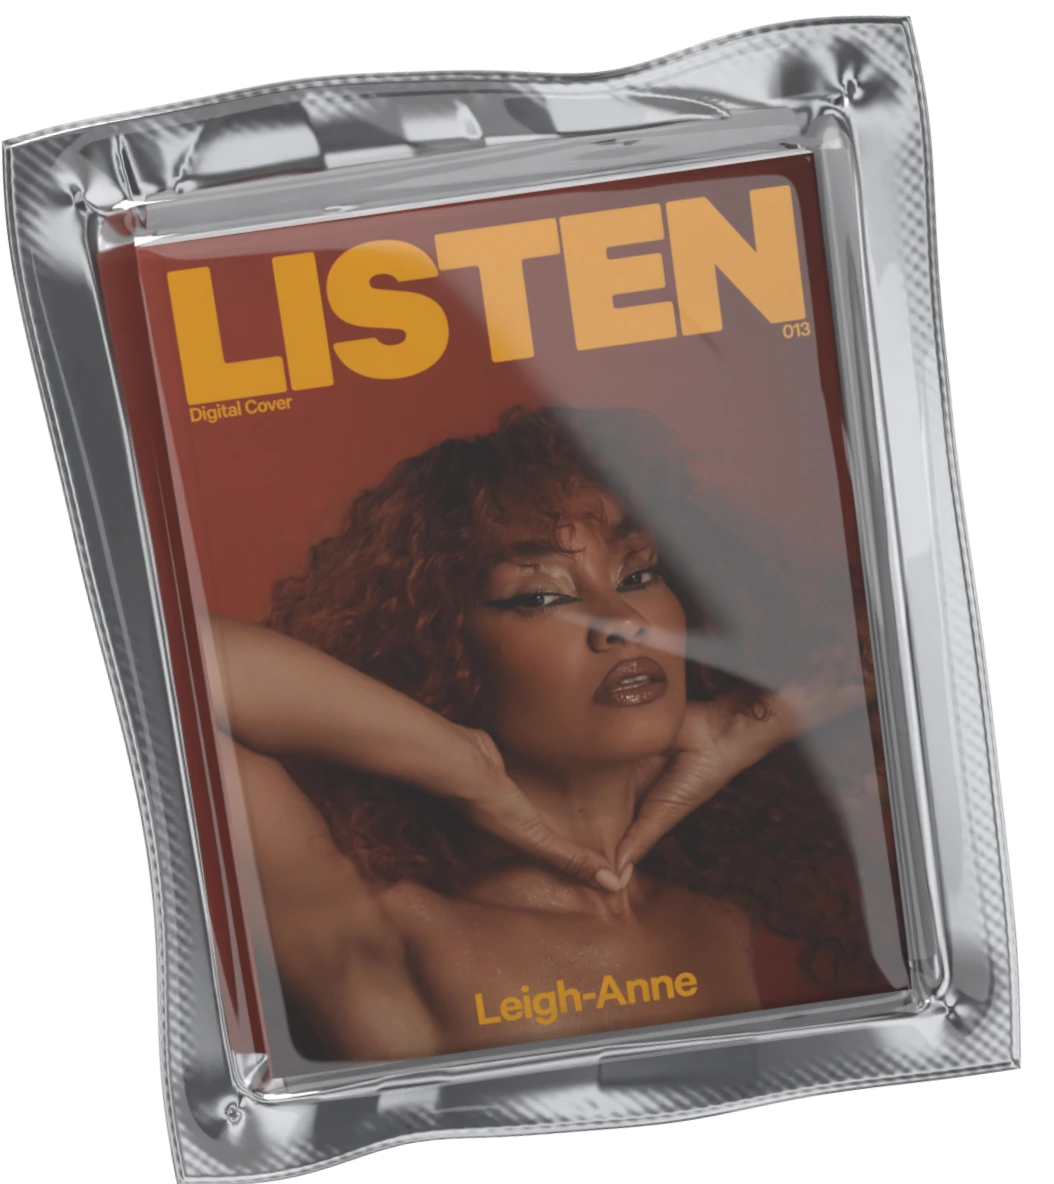
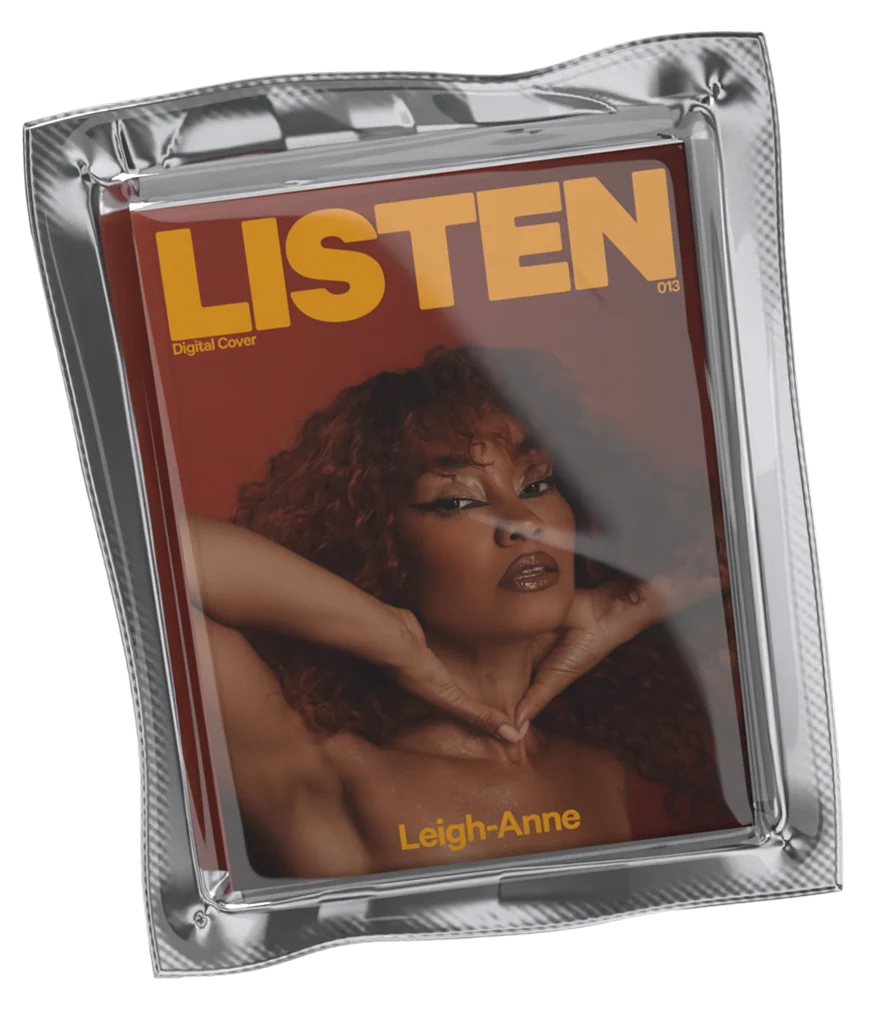
Mobile: sharper 2x LISTEN still from Sam, placed to the Figma frame
Claude-Session: https://claude.ai/code/session_012K1qkxSxFVPdh193GzudyK

diff --git a/new/about.html b/new/about.html
@@ -20,12 +20,12 @@ try{if(sessionStorage.getItem("sm-tx")&&!matchMedia("(prefers-reduced-motion: re
 <meta name="twitter:card" content="summary_large_image">
 <link rel="stylesheet" href="https://use.typekit.net/wpk2hzh.css">
 <!-- Bump ?v= on every update so browsers never mix old and new files. -->
-<link rel="stylesheet" href="css/site.css?v=20261108g">
-<link rel="stylesheet" href="css/case.css?v=20261108g">
-<link rel="stylesheet" href="css/mobile.css?v=20261108g">
-<link rel="stylesheet" href="css/about.css?v=20261108g">
+<link rel="stylesheet" href="css/site.css?v=20261108h">
+<link rel="stylesheet" href="css/case.css?v=20261108h">
+<link rel="stylesheet" href="css/mobile.css?v=20261108h">
+<link rel="stylesheet" href="css/about.css?v=20261108h">
 <!-- Hide this page right away if the project is switched off (js/projects.js) -->
-<script src="js/projects.js?v=20261108g"></script>
+<script src="js/projects.js?v=20261108h"></script>
 </head>
 <body data-page="case" data-project="about">
 <!-- Page transition screen (js/transition.js) -->
@@ -104,17 +104,17 @@ try{if(sessionStorage.getItem("sm-tx")&&!matchMedia("(prefers-reduced-motion: re
   <a class="is-dark-rim" href="index.html">Home</a>
 </footer>
 
-<script src="js/vendor/gsap.min.js?v=20261108g"></script>
-<script src="js/vendor/ScrollTrigger.min.js?v=20261108g"></script>
-<script src="js/vendor/lenis.min.js?v=20261108g"></script>
-<script src="js/smooth.js?v=20261108g"></script>
-<script src="js/glass.js?v=20261108g"></script>
-<script src="js/header.js?v=20261108g"></script>
-<script src="js/case.js?v=20261108g"></script>
-<script src="js/media-viewer.js?v=20261108g"></script>
-<script src="js/transition.js?v=20261108g"></script>
-<script src="js/theme.js?v=20261108g"></script>
-<script src="js/mobile-menu.js?v=20261108g"></script>
-<script src="js/about.js?v=20261108g"></script>
+<script src="js/vendor/gsap.min.js?v=20261108h"></script>
+<script src="js/vendor/ScrollTrigger.min.js?v=20261108h"></script>
+<script src="js/vendor/lenis.min.js?v=20261108h"></script>
+<script src="js/smooth.js?v=20261108h"></script>
+<script src="js/glass.js?v=20261108h"></script>
+<script src="js/header.js?v=20261108h"></script>
+<script src="js/case.js?v=20261108h"></script>
+<script src="js/media-viewer.js?v=20261108h"></script>
+<script src="js/transition.js?v=20261108h"></script>
+<script src="js/theme.js?v=20261108h"></script>
+<script src="js/mobile-menu.js?v=20261108h"></script>
+<script src="js/about.js?v=20261108h"></script>
 </body>
 </html>

diff --git a/new/contact.html b/new/contact.html
@@ -20,11 +20,11 @@ try{if(sessionStorage.getItem("sm-tx")&&!matchMedia("(prefers-reduced-motion: re
 <meta name="twitter:card" content="summary_large_image">
 <link rel="stylesheet" href="https://use.typekit.net/wpk2hzh.css">
 <!-- Bump ?v= on every update so browsers never mix old and new files. -->
-<link rel="stylesheet" href="css/site.css?v=20261108g">
-<link rel="stylesheet" href="css/case.css?v=20261108g">
-<link rel="stylesheet" href="css/mobile.css?v=20261108g">
+<link rel="stylesheet" href="css/site.css?v=20261108h">
+<link rel="stylesheet" href="css/case.css?v=20261108h">
+<link rel="stylesheet" href="css/mobile.css?v=20261108h">
 <!-- Hide this page right away if the project is switched off (js/projects.js) -->
-<script src="js/projects.js?v=20261108g"></script>
+<script src="js/projects.js?v=20261108h"></script>
 </head>
 <body data-page="case" data-project="contact">
 <!-- Page transition screen (js/transition.js) -->
@@ -77,16 +77,16 @@ try{if(sessionStorage.getItem("sm-tx")&&!matchMedia("(prefers-reduced-motion: re
   <a class="is-dark-rim" href="index.html">Home</a>
 </footer>
 
-<script src="js/vendor/gsap.min.js?v=20261108g"></script>
-<script src="js/vendor/ScrollTrigger.min.js?v=20261108g"></script>
-<script src="js/vendor/lenis.min.js?v=20261108g"></script>
-<script src="js/smooth.js?v=20261108g"></script>
-<script src="js/glass.js?v=20261108g"></script>
-<script src="js/header.js?v=20261108g"></script>
-<script src="js/case.js?v=20261108g"></script>
-<script src="js/media-viewer.js?v=20261108g"></script>
-<script src="js/transition.js?v=20261108g"></script>
-<script src="js/theme.js?v=20261108g"></script>
-<script src="js/mobile-menu.js?v=20261108g"></script>
+<script src="js/vendor/gsap.min.js?v=20261108h"></script>
+<script src="js/vendor/ScrollTrigger.min.js?v=20261108h"></script>
+<script src="js/vendor/lenis.min.js?v=20261108h"></script>
+<script src="js/smooth.js?v=20261108h"></script>
+<script src="js/glass.js?v=20261108h"></script>
+<script src="js/header.js?v=20261108h"></script>
+<script src="js/case.js?v=20261108h"></script>
+<script src="js/media-viewer.js?v=20261108h"></script>
+<script src="js/transition.js?v=20261108h"></script>
+<script src="js/theme.js?v=20261108h"></script>
+<script src="js/mobile-menu.js?v=20261108h"></script>
 </body>
 </html>

diff --git a/new/composer.html b/new/composer.html
@@ -20,11 +20,11 @@ try{if(sessionStorage.getItem("sm-tx")&&!matchMedia("(prefers-reduced-motion: re
 <meta name="twitter:card" content="summary_large_image">
 <link rel="stylesheet" href="https://use.typekit.net/wpk2hzh.css">
 <!-- Bump ?v= on every update so browsers never mix old and new files. -->
-<link rel="stylesheet" href="css/site.css?v=20261108g">
-<link rel="stylesheet" href="css/case.css?v=20261108g">
-<link rel="stylesheet" href="css/mobile.css?v=20261108g">
+<link rel="stylesheet" href="css/site.css?v=20261108h">
+<link rel="stylesheet" href="css/case.css?v=20261108h">
+<link rel="stylesheet" href="css/mobile.css?v=20261108h">
 <!-- Hide this page right away if the project is switched off (js/projects.js) -->
-<script src="js/projects.js?v=20261108g"></script>
+<script src="js/projects.js?v=20261108h"></script>
 </head>
 <body data-page="case" data-project="composer">
 <!-- Page transition screen (js/transition.js) -->
@@ -100,16 +100,16 @@ try{if(sessionStorage.getItem("sm-tx")&&!matchMedia("(prefers-reduced-motion: re
   <a data-dir="next" href="index.html">Next</a>
 </footer>
 
-<script src="js/vendor/gsap.min.js?v=20261108g"></script>
-<script src="js/vendor/ScrollTrigger.min.js?v=20261108g"></script>
-<script src="js/vendor/lenis.min.js?v=20261108g"></script>
-<script src="js/smooth.js?v=20261108g"></script>
-<script src="js/glass.js?v=20261108g"></script>
-<script src="js/header.js?v=20261108g"></script>
-<script src="js/case.js?v=20261108g"></script>
-<script src="js/media-viewer.js?v=20261108g"></script>
-<script src="js/transition.js?v=20261108g"></script>
-<script src="js/theme.js?v=20261108g"></script>
-<script src="js/mobile-menu.js?v=20261108g"></script>
+<script src="js/vendor/gsap.min.js?v=20261108h"></script>
+<script src="js/vendor/ScrollTrigger.min.js?v=20261108h"></script>
+<script src="js/vendor/lenis.min.js?v=20261108h"></script>
+<script src="js/smooth.js?v=20261108h"></script>
+<script src="js/glass.js?v=20261108h"></script>
+<script src="js/header.js?v=20261108h"></script>
+<script src="js/case.js?v=20261108h"></script>
+<script src="js/media-viewer.js?v=20261108h"></script>
+<script src="js/transition.js?v=20261108h"></script>
+<script src="js/theme.js?v=20261108h"></script>
+<script src="js/mobile-menu.js?v=20261108h"></script>
 </body>
 </html>

diff --git a/new/google-ads.html b/new/google-ads.html
@@ -20,11 +20,11 @@ try{if(sessionStorage.getItem("sm-tx")&&!matchMedia("(prefers-reduced-motion: re
 <meta name="twitter:card" content="summary_large_image">
 <link rel="stylesheet" href="https://use.typekit.net/wpk2hzh.css">
 <!-- Bump ?v= on every update so browsers never mix old and new files. -->
-<link rel="stylesheet" href="css/site.css?v=20261108g">
-<link rel="stylesheet" href="css/case.css?v=20261108g">
-<link rel="stylesheet" href="css/mobile.css?v=20261108g">
+<link rel="stylesheet" href="css/site.css?v=20261108h">
+<link rel="stylesheet" href="css/case.css?v=20261108h">
+<link rel="stylesheet" href="css/mobile.css?v=20261108h">
 <!-- Hide this page right away if the project is switched off (js/projects.js) -->
-<script src="js/projects.js?v=20261108g"></script>
+<script src="js/projects.js?v=20261108h"></script>
 </head>
 <body data-page="case" data-project="google-ads">
 <!-- Page transition screen (js/transition.js) -->
@@ -88,16 +88,16 @@ try{if(sessionStorage.getItem("sm-tx")&&!matchMedia("(prefers-reduced-motion: re
   <a data-dir="next" href="index.html">Next</a>
 </footer>
 
-<script src="js/vendor/gsap.min.js?v=20261108g"></script>
-<script src="js/vendor/ScrollTrigger.min.js?v=20261108g"></script>
-<script src="js/vendor/lenis.min.js?v=20261108g"></script>
-<script src="js/smooth.js?v=20261108g"></script>
-<script src="js/glass.js?v=20261108g"></script>
-<script src="js/header.js?v=20261108g"></script>
-<script src="js/case.js?v=20261108g"></script>
-<script src="js/media-viewer.js?v=20261108g"></script>
-<script src="js/transition.js?v=20261108g"></script>
-<script src="js/theme.js?v=20261108g"></script>
-<script src="js/mobile-menu.js?v=20261108g"></script>
+<script src="js/vendor/gsap.min.js?v=20261108h"></script>
+<script src="js/vendor/ScrollTrigger.min.js?v=20261108h"></script>
+<script src="js/vendor/lenis.min.js?v=20261108h"></script>
+<script src="js/smooth.js?v=20261108h"></script>
+<script src="js/glass.js?v=20261108h"></script>
+<script src="js/header.js?v=20261108h"></script>
+<script src="js/case.js?v=20261108h"></script>
+<script src="js/media-viewer.js?v=20261108h"></script>
+<script src="js/transition.js?v=20261108h"></script>
+<script src="js/theme.js?v=20261108h"></script>
+<script src="js/mobile-menu.js?v=20261108h"></script>
 </body>
 </html>

diff --git a/new/listen.html b/new/listen.html
@@ -20,11 +20,11 @@ try{if(sessionStorage.getItem("sm-tx")&&!matchMedia("(prefers-reduced-motion: re
 <meta name="twitter:card" content="summary_large_image">
 <link rel="stylesheet" href="https://use.typekit.net/wpk2hzh.css">
 <!-- Bump ?v= on every update so browsers never mix old and new files. -->
-<link rel="stylesheet" href="css/site.css?v=20261108g">
-<link rel="stylesheet" href="css/case.css?v=20261108g">
-<link rel="stylesheet" href="css/mobile.css?v=20261108g">
+<link rel="stylesheet" href="css/site.css?v=20261108h">
+<link rel="stylesheet" href="css/case.css?v=20261108h">
+<link rel="stylesheet" href="css/mobile.css?v=20261108h">
 <!-- Hide this page right away if the project is switched off (js/projects.js) -->
-<script src="js/projects.js?v=20261108g"></script>
+<script src="js/projects.js?v=20261108h"></script>
 </head>
 <body data-page="case" data-project="listen">
 <!-- Page transition screen (js/transition.js) -->
@@ -89,16 +89,16 @@ try{if(sessionStorage.getItem("sm-tx")&&!matchMedia("(prefers-reduced-motion: re
   <a data-dir="next" href="index.html">Next</a>
 </footer>
 
-<script src="js/vendor/gsap.min.js?v=20261108g"></script>
-<script src="js/vendor/ScrollTrigger.min.js?v=20261108g"></script>
-<script src="js/vendor/lenis.min.js?v=20261108g"></script>
-<script src="js/smooth.js?v=20261108g"></script>
-<script src="js/glass.js?v=20261108g"></script>
-<script src="js/header.js?v=20261108g"></script>
-<script src="js/case.js?v=20261108g"></script>
-<script src="js/media-viewer.js?v=20261108g"></script>
-<script src="js/transition.js?v=20261108g"></script>
-<script src="js/theme.js?v=20261108g"></script>
-<script src="js/mobile-menu.js?v=20261108g"></script>
+<script src="js/vendor/gsap.min.js?v=20261108h"></script>
+<script src="js/vendor/ScrollTrigger.min.js?v=20261108h"></script>
+<script src="js/vendor/lenis.min.js?v=20261108h"></script>
+<script src="js/smooth.js?v=20261108h"></script>
+<script src="js/glass.js?v=20261108h"></script>
+<script src="js/header.js?v=20261108h"></script>
+<script src="js/case.js?v=20261108h"></script>
+<script src="js/media-viewer.js?v=20261108h"></script>
+<script src="js/transition.js?v=20261108h"></script>
+<script src="js/theme.js?v=20261108h"></script>
+<script src="js/mobile-menu.js?v=20261108h"></script>
 </body>
 </html>

diff --git a/new/index.html b/new/index.html
@@ -19,8 +19,8 @@ try{if(sessionStorage.getItem("sm-tx")&&!matchMedia("(prefers-reduced-motion: re
 <meta name="twitter:card" content="summary_large_image">
 <link rel="stylesheet" href="https://use.typekit.net/wpk2hzh.css">
 <!-- Bump ?v= on every update so browsers never mix old and new files. -->
-<link rel="stylesheet" href="css/site.css?v=20261108g">
-<link rel="stylesheet" href="css/mobile.css?v=20261108g">
+<link rel="stylesheet" href="css/site.css?v=20261108h">
+<link rel="stylesheet" href="css/mobile.css?v=20261108h">
 </head>
 <body data-page="home">
 <!-- Page transition screen (js/transition.js) -->
@@ -163,19 +163,19 @@ try{if(sessionStorage.getItem("sm-tx")&&!matchMedia("(prefers-reduced-motion: re
   </section>
 </main>
 
-<script src="js/vendor/gsap.min.js?v=20261108g"></script>
-<script src="js/vendor/ScrollTrigger.min.js?v=20261108g"></script>
-<script src="js/vendor/lenis.min.js?v=20261108g"></script>
-<script src="js/smooth.js?v=20261108g"></script>
-<script src="js/intro.js?v=20261108g"></script>
-<script src="js/projects.js?v=20261108g"></script>
-<script src="js/project-scroll.js?v=20261108g"></script>
-<script src="js/glass.js?v=20261108g"></script>
-<script src="js/cards.js?v=20261108g"></script>
-<script src="js/header.js?v=20261108g"></script>
-<script src="js/transition.js?v=20261108g"></script>
-<script src="js/theme.js?v=20261108g"></script>
-<script src="js/mobile-menu.js?v=20261108g"></script>
-<script src="js/mobile-home.js?v=20261108g"></script>
+<script src="js/vendor/gsap.min.js?v=20261108h"></script>
+<script src="js/vendor/ScrollTrigger.min.js?v=20261108h"></script>
+<script src="js/vendor/lenis.min.js?v=20261108h"></script>
+<script src="js/smooth.js?v=20261108h"></script>
+<script src="js/intro.js?v=20261108h"></script>
+<script src="js/projects.js?v=20261108h"></script>
+<script src="js/project-scroll.js?v=20261108h"></script>
+<script src="js/glass.js?v=20261108h"></script>
+<script src="js/cards.js?v=20261108h"></script>
+<script src="js/header.js?v=20261108h"></script>
+<script src="js/transition.js?v=20261108h"></script>
+<script src="js/theme.js?v=20261108h"></script>
+<script src="js/mobile-menu.js?v=20261108h"></script>
+<script src="js/mobile-home.js?v=20261108h"></script>
 </body>
 </html>

diff --git a/new/js/projects.js b/new/js/projects.js
@@ -31,5 +31,5 @@ window.PROJECTS = [
   { id: 'listen',     title: 'Listen Mag', href: 'listen.html',     live: true,
     client: 'Listen Mag', tags: ['Social', 'Motion'],
     seq: { path: 'img/projects/listen', frames: 180, x: 399.1, y: -2, w: 1065, h: 1196, ease: [0.333, 0, 0.667, 1] },
-    m: { src: 'img/mobile/listen.webp', x: -62, y: 59.6, w: 430, h: 483 } },
+    m: { src: 'img/mobile/listen.webp', x: -71, y: 52.6, w: 447, h: 506.5 } },
 ];
